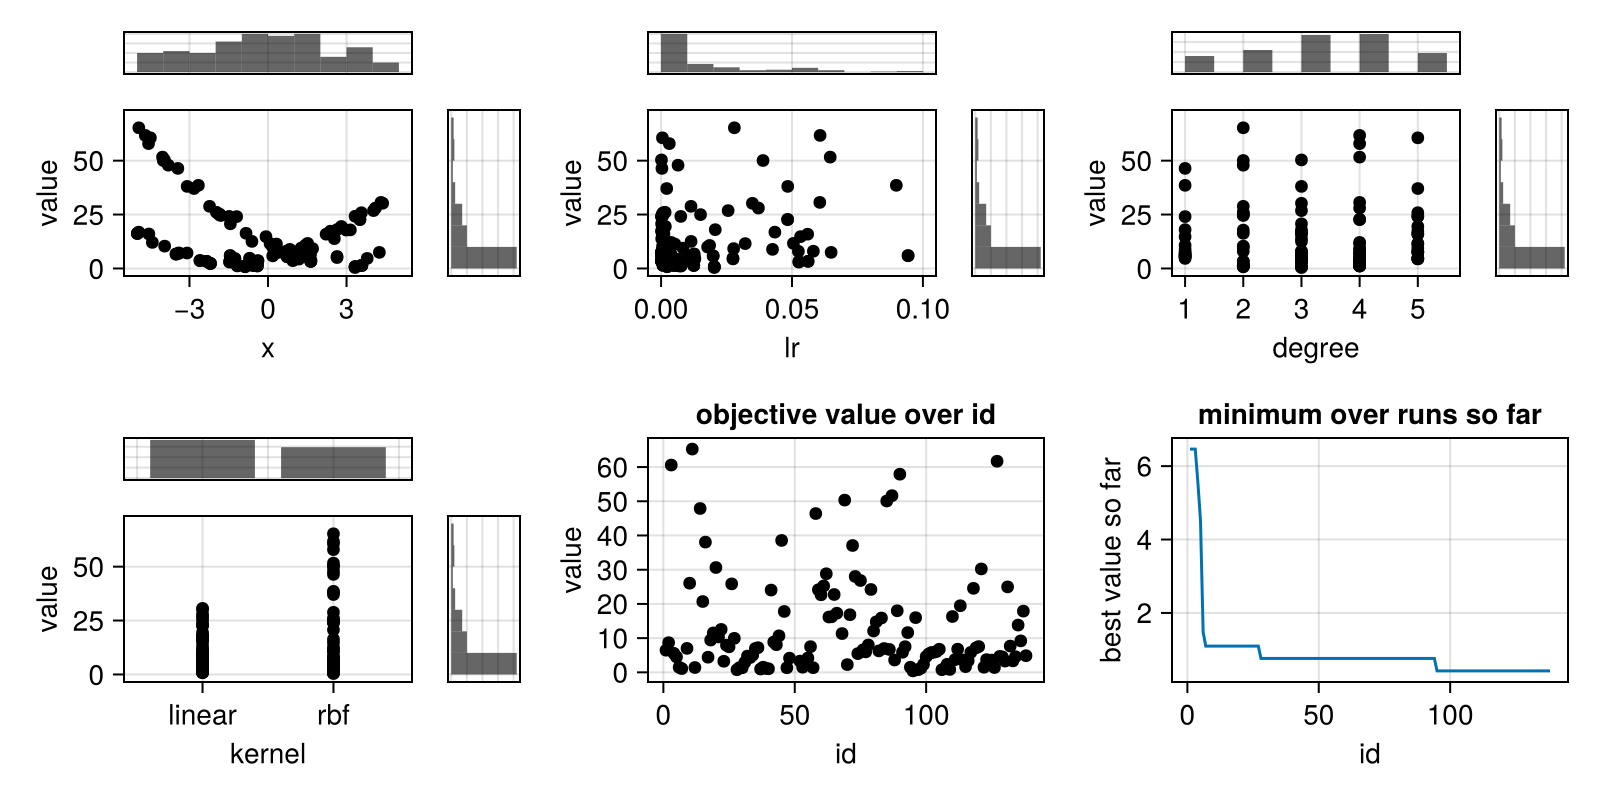
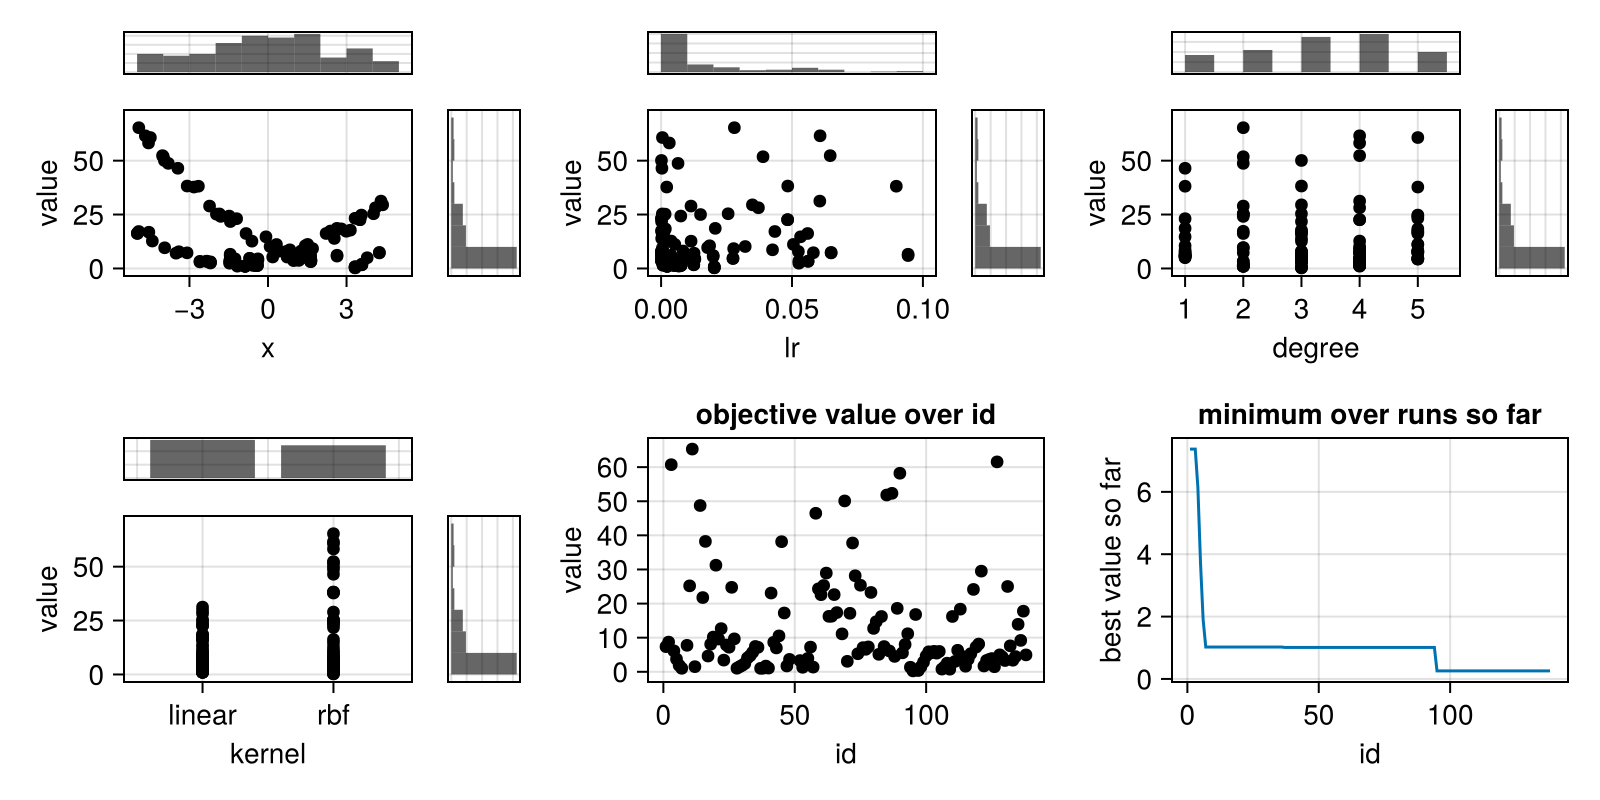
Use exp10 for the log-uniform domain in the sample code
Base already provides the named function the transform needs, so the
log_uniform helper and its explanation were carrying no weight.

diff --git a/README.md b/README.md
@@ -52,15 +52,13 @@ function noisy_bowl(p; pre_artefact=nothing)
     return total / n_done, (n_done, total)
 end
 
-# Named, not a closure: checkpoints store functions by name, so an anonymous `u -> 10.0^u`
-# would not survive a reload.
-log_uniform(u) = 10.0^u
-
+# `transform` must be a named function: checkpoints store functions by name, so an anonymous
+# `u -> 10.0^u` would not survive a reload.
 candidates = (
-    x=Continuous(-5.0, 5.0),                       # uniform over [-5, 5]
-    lr=Continuous(-4, -1; transform=log_uniform),  # log-uniform over [1e-4, 1e-1]
-    degree=Ordinal([1, 2, 3, 4, 5]),               # ordered, so 2 lies between 1 and 3
-    kernel=Nominal(["rbf", "linear"]),             # unordered, no level is "between" any other
+    x=Continuous(-5.0, 5.0),                  # uniform over [-5, 5]
+    lr=Continuous(-4, -1; transform=exp10),   # log-uniform over [1e-4, 1e-1]
+    degree=Ordinal([1, 2, 3, 4, 5]),          # ordered, so 2 lies between 1 and 3
+    kernel=Nominal(["rbf", "linear"]),        # unordered, no level is "between" any other
 )
 
 # iterations=2 replays the whole bracket schedule twice: 4 brackets, 138 trials in total.
